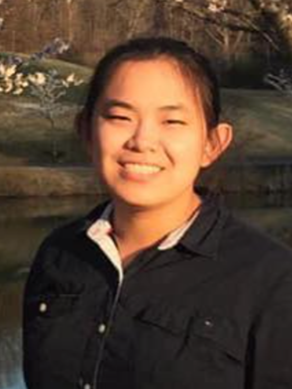
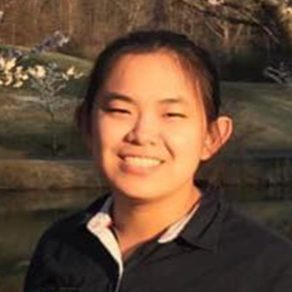
resize photo

diff --git a/CommitteeMember.html b/CommitteeMember.html
@@ -84,7 +84,7 @@
                             </div>
 							<div class="column">
                                 <a href="https://www3.cs.stonybrook.edu/~fuswang/">
-                                    <img width="150" height="180" src="images/FushengWang.jpg">
+                                    <img width="170" height="170" src="images/FushengWang.jpg">
                                 </a>
                                 <br>Fusheng Wang,<br> Stony Brook University, USA,<br>fusheng.wang@stonybrook.edu
                             </div>
@@ -96,19 +96,19 @@
                         <div class="row">
                             <div class="column">
                                 <a href=" https://www.cs.umb.edu/~ding/">
-                                    <img width="170" height="160" src="images/weiding.jpg">
+                                    <img width="170" height="170" src="images/weiding.jpg">
                                 </a>
                                 <br>Wei Ding,<br> U. of Massachusetts Boston, USA, <br>wei.ding@umb.edu
                             </div>
                             <div class="column">
                                 <a href="http://www.cs.umd.edu/~heng">
-                                    <img width="150" height="150" src="images/HengHuang.jpg">
+                                    <img width="170" height="170" src="images/HengHuang.jpg">
                                 </a>
                                 <br>Heng Huang,<br> U. of Maryland, USA, <br>heng@umd.edu
                             </div>
                             <div class="column">
                                 <a href="https://roux.northeastern.edu/people/ricardo-baeza-yates/">
-                                    <img width="130" height="150" src="images/RicardoBaeza-Yates.jpg">
+                                    <img width="170" height="170" src="images/RicardoBaeza-Yates.jpg">
                                 </a>
                                 <br>Ricardo Baeza-Yates,<br> Northeastern University, USA,<br>r.baeza-yates@northeastern.edu
                             </div>
@@ -120,15 +120,15 @@
                         <div class="row">
                             <div class="column">
                                 <a href="https://www.es.net/about/esnet-staff/testbeds-and-prototypes/john-wu/">
-                                    <img width="150" height="160" src="images/KeshengWu.jpg">
+                                    <img width="170" height="170" src="images/KeshengWu.jpg">
                                 </a>
                                 <br>Kesheng Wu,<br> Lawrence Berkeley National Laboratory, USA,<br>johnwu@es.net
                             </div>
                             <div class="column">
-                                <a href="https://people.cs.vt.edu/ctlu/">
-                                    <img width="270" height="200" src="images/DominikSlezak.jpeg">
+                                <a href="https://engineering.unt.edu/news/unt-professor-and-phd-alumnus-receive-10-year-impact-award">
+                                    <img width="170" height="170" src="images/ChengyangZhang.png">
                                 </a>
-                                <br>CY Zhang,<br> Microsoft 
+                                <br>Chengyang Zhang, <br> Microsoft, USA, <br> cyzhang@microsoft.com
                             </div>
                         </div>
                     </div>
@@ -138,7 +138,7 @@
                         <div class="row">
                             <div class="column">
                                 <a href="https://yanjiefu.com/">
-                                    <img width="150" height="180" src="images/YanjieFu.jpg">
+                                    <img width="170" height="170" src="images/YanjieFu.jpg">
                                 </a>
                                 <br>Yanjie Fu,<br>Arizona State University, USA,<br>yanjie.fu@asu.edu
                             </div>
@@ -150,13 +150,13 @@
                         <div class="row">
                             <div class="column">
                                 <a href="https://statistics.columbian.gwu.edu/fang-jin">
-                                    <img width="140" height="200" src="images/FangJin.jpg">
+                                    <img width="170" height="170" src="images/FangJin.jpg">
                                 </a>
                                 <br>Fang Jin,<br> George Washington university, USA,<br>fangjin@email.gwu.edu
                             </div>
                             <div class="column">
                                 <a href="https://lcheng.org/">
-                                    <img width="140" height="180" src="images/lucheng.png">
+                                    <img width="170" height="170" src="images/lucheng.png">
                                 </a>
                                 <br>Lu Cheng,<br> U. of Illinois at Chicago, USA, <br>lucheng@uic.edu
                             </div>
@@ -168,13 +168,13 @@
                         <div class="row">
                             <div class="column">
                                 <a href="https://engineering.virginia.edu/faculty/jundong-li">
-                                    <img width="150" height="160" src="images/JundongLi.jpg">
+                                    <img width="170" height="170" src="images/JundongLi.jpg">
                                 </a>
                                 <br>Jundong Li, <br> U. of Virginia, USA, <br> jl6qk@virginia.edu
                             </div>
                             <div class="column">
                                 <a href="https://usc-isi-i2.github.io/ilievski/">
-                                    <img width="150" height="160" src="images/FilipIlievski.jpg">
+                                    <img width="170" height="170" src="images/FilipIlievski.jpg">
                                 </a>
                                 <br>Filip Ilievski,<br> U. of South California, USA,<br> ilievski@isi.edu
                             </div>
@@ -186,13 +186,13 @@
                         <div class="row">
                             <div class="column">
                                 <a href="https://bolongzheng.com/">
-                                    <img width="150" height="160" src="images/BolongZheng.jpg">
+                                    <img width="170" height="170" src="images/BolongZheng.jpg">
                                 </a>
                                 <br>Bolong Zheng, <br> Huazhong University of Science and Technology, China,<br> zblchris@gmail.com
                             </div>
                             <div class="column">
                                 <a href="https://www.utrgv.edu/csci/faculty/yifeng-gao/index.htm">
-                                    <img width="130" height="180" src="images/yifeng_gao.png">
+                                    <img width="170" height="170" src="images/yifeng_gao.png">
                                 </a>
                                 <br>Yifeng Gao, <br> University of Texas Rio Grande Valley, USA, <br> yifeng.gao@utrgv.edu
                             </div>
@@ -205,7 +205,7 @@
                         <div class="row">
                             <div class="column">
                                 <a href="https://people.cs.vt.edu/ctlu/">
-                                    <img width="140" height="160" src="images/CarlosOrdonez.jpeg">
+                                    <img width="170" height="170" src="images/CarlosOrdonez.jpeg">
                                 </a>
                                 <br>Arnold? Danny?
                             </div>
@@ -218,7 +218,7 @@
                         <div class="row">
                             <div class="column">
                                 <a href="https://tengdj.github.io/">
-                                    <img width="140" height="160" src="images/DejunTeng.jpg">
+                                    <img width="170" height="170" src="images/DejunTeng.jpg">
                                 </a>
                                 <br>Dejun Teng,<br>Shandong University, China, <br>teng@sdu.edu.cn
                             </div>
@@ -231,7 +231,7 @@
                         <div class="row">
                             <div class="column">
                                 <a href="https://cse.umn.edu/cs/yao-yi-chiang">
-                                    <img width="130" height="180" src="images/Yao-YiChiang.jpg">
+                                    <img width="170" height="170" src="images/Yao-YiChiang.jpg">
                                 </a>
                                 <br>Yao-Yi Chiang, <br> University of Minnesota, USA, <br>yaoyi@umn.edu
                             </div>
@@ -244,13 +244,13 @@
                         <div class="row">
                             <div class="column">
                                 <a href="https://www.sdstate.edu/directory/kaiqun-fu">
-                                    <img width="140" height="160" src="images/KaiqunFu.jpg">
+                                    <img width="170" height="170" src="images/KaiqunFu.jpg">
                                 </a>
                                 <br>Kaiqun Fu, <br> South Dakota State University, USA, <br> kaiqun.fu@sdstate.edu
                             </div>
                             <div class="column">
                                 <a href="https://www.fau.edu/engineering/directory/faculty/tang/">
-                                    <img width="140" height="160" src="images/YUFEITANG.jpg">
+                                    <img width="170" height="170" src="images/YUFEITANG.jpg">
                                 </a>
                                 <br>Yufei Tang, <br> Florida Atlantic University, USA, <br> tangy@fau.edu
                             </div>
@@ -263,7 +263,7 @@
                         <div class="row">
                             <div class="column">
                                 <a href="https://geog.umd.edu/facultyprofile/xie/yiqun">
-                                    <img width="140" height="160" src="images/YiqunXie.jpg">
+                                    <img width="170" height="170" src="images/YiqunXie.jpg">
                                 </a>
                                 <br>Yiqun Xie <br> University of Maryland, USA, <br> xie@umd.edu
                         </div>
@@ -275,7 +275,7 @@
                         <div class="row">
                             <div class="column">
                                 <a href="https://kunpengliu.com/">
-                                    <img width="160" height="150" src="images/KunpengLiu.jpg">
+                                    <img width="170" height="170" src="images/KunpengLiu.jpg">
                                 </a>
                                 <br>Kunpeng Liu, <br> Portland State University, USA<br> kunpeng@pdx.edu
                             </div>
@@ -288,7 +288,7 @@
                         <div class="row">
                             <div class="column">
                                 <a href="https://webpages.charlotte.edu/lfan4/">
-                                    <img width="130" height="160" src="images/LiyueFan.jpg">
+                                    <img width="170" height="170" src="images/LiyueFan.jpg">
                                 </a>
                                 <br>Liyue Fan, <br> University of North Carolina at Charlotte, USA, <br>liyue.fan@uncc.edu
                             </div>
@@ -301,19 +301,19 @@
                         <div class="row">
                             <div class="column">
                                 <a href="https://www.utrgv.edu/csci/faculty/li-zhang/index.htm">
-                                    <img width="130" height="170" src="images/li-zhang.png">
+                                    <img width="170" height="170" src="images/li-zhang.png">
                                 </a>
                                 <br>Li Zhang, <br> University of Texas Rio Grande Valley, USA, <br>li.zhang@utrgv.edu
                             </div>
                             <div class="column">
                                 <a href="https://shiruipan.github.io/">
-                                    <img width="150" height="150" src="images/ShiruiPan.jpg">
+                                    <img width="170" height="170" src="images/ShiruiPan.jpg">
                                 </a>
                                 <br>Shirui Pan, <br> Griffith University, Australia, <br> s.pan@griffith.edu.au
                             </div>
                             <div class="column">
                                 <a href="https://kclpure.kcl.ac.uk/portal/en/persons/davide-ferrari">
-                                    <img width="140" height="160" src="images/DavideFerrari.jpg">
+                                    <img width="170" height="170" src="images/DavideFerrari.jpg">
                                 </a>
                                 <br>Davide Ferrari, <br> King's College, London, <br> davide.ferrari@kcl.ac.uk
                             </div>
@@ -326,13 +326,13 @@
                         <div class="row">
                             <div class="column">
                                 <a href="https://yong-zhuang.github.io/">
-                                    <img width="150" height="150" src="images/YongZhuang.jpg">
+                                    <img width="170" height="170" src="images/YongZhuang.jpg">
                                 </a>
                                 <br>Yong Zhuang, <br> Grand Valley State University, USA, <br> yong.zhuang@gvsu.edu
                             </div>
                             <div class="column">
                                 <a href="https://taoranj.github.io/">
-                                    <img width="130" height="160" src="images/TaoranJi.jpg">
+                                    <img width="170" height="170" src="images/TaoranJi.jpg">
                                 </a>
                                 <br>Taoran Ji, <br> Texas A&M U. Corpus Christi, USA, <br> taoran.ji@tamucc.edu
                             </div>
@@ -350,13 +350,13 @@
                         <div class="row">
                             <div class="column">
                                 <a href="https://www.ai.informatik.uni-kiel.de/de/team/prof-dr-matthias-renz">
-                                    <img width="130" height="170" src="images/MatthiasRenz.jpeg">
+                                    <img width="170" height="170" src="images/MatthiasRenz.jpeg">
                                 </a>
                                 <br>Matthias Renz, <br> CAU University of Kiel, Germany, <br> mr@informatik.uni-kiel.de
                             </div>
                             <div class="column">
                                 <a href="https://ieeexplore.ieee.org/author/37535423600">
-                                    <img width="135" height="170" src="images/ZhihuiLu.png">
+                                    <img width="170" height="170" src="images/ZhihuiLu.png">
                                 </a>
                                 <br>Zhihui Lu, <br> Fudan University, China, <br> lzh@fudan.edu.cn
                             </div>
@@ -368,13 +368,13 @@
                         <div class="row">
                             <div class="column">
                                 <a href="https://research.manchester.ac.uk/en/persons/hujun.yin">
-                                    <img width="150" height="170" src="images/HujunYin.jpg">
+                                    <img width="170" height="170" src="images/HujunYin.jpg">
                                 </a>
                                 <br>Hujun Yin, <br> University of Manchester, UK,<br> hujun.yin@manchester.ac.uk
                             </div>
                             <div class="column">
                                 <a href="https://www.bigscity.com/jingyuan-wang/">
-                                    <img width="130" height="170" src="images/JingyuanWang.jpg">
+                                    <img width="170" height="170" src="images/JingyuanWang.jpg">
                                 </a>
                                 <br>Jingyuan Wang, <br> Beihang University, China, <br> jywang@buaa.edu.cn
                             </div>
@@ -386,13 +386,13 @@
                         <div class="row">
                             <div class="column">
                                 <a href="https://www.olcf.ornl.gov/directory/staff-member/arjun-shankar/">
-                                    <img width="130" height="170" src="images/ArjunShankar.png">
+                                    <img width="170" height="170" src="images/ArjunShankar.png">
                                 </a>
                                 <br>Arjun Shankar, <br> Oak Ridge National Laboratory, USA, <br> shankarm@ornl.gov
                             </div>
                             <div class="column">
                                 <a href="https://www.csc.ncsu.edu/people/rrvatsav">
-                                    <img width="130" height="180" src="images/RajuVatsavai.jpg">
+                                    <img width="170" height="170" src="images/RajuVatsavai.jpg">
                                 </a>
                                 <br>Raju Vatsavai, <br> North Carolina State University, USA, <br> rrvatsav@ncsu.edu 
                             </div>
@@ -404,13 +404,13 @@
                         <div class="row">
                             <div class="column">
                                 <a href="https://eng.auburn.edu/directory/weishinn">
-                                    <img width="130" height="180" src="images/Wei-ShinnKu.jpg">
+                                    <img width="170" height="170" src="images/Wei-ShinnKu.jpg">
                                 </a>
                                 <br>Wei-Shinn (Jeff) Ku, <br> Auburn University, USA, <br> weishinn@gmail.com 
                             </div>
                             <div class="column">
                                 <a href="https://cs.uiowa.edu/people/bijaya-adhikari">
-                                    <img width="150" height="150" src="images/BijayaAdhikari.jpg">
+                                    <img width="170" height="170" src="images/BijayaAdhikari.jpg">
                                 </a>
                                 <br>Bijaya Adhikari, <br>University of Iowa, USA, <br>bijaya-adhikari@uiowa.edu
                             </div>
@@ -422,13 +422,13 @@
                         <div class="row">
                             <div class="column">
                                 <a href="https://www.jiangteam.org/">
-                                    <img width="130" height="160" src="images/ZheJiang.jpg">
+                                    <img width="170" height="170" src="images/ZheJiang.jpg">
                                 </a>
                                 <br>Zhe Jiang, <br> University of Florida, USA, <br> zhe.jiang@ufl.edu
                             </div>
                             <div class="column">
                                 <a href="https://www.itk.ilstu.edu//faculty/arezgui/">
-                                    <img width="130" height="180" src="images/AbdelmounaamRezgui.avif">
+                                    <img width="170" height="170" src="images/AbdelmounaamRezgui.png">
                                 </a>
                                 <br>Abdelmounaam Rezgui, <br> Illinois State University, USA, <br>arezgui@ilstu.edu 
                             </div>
@@ -440,13 +440,13 @@
                         <div class="row">
                             <div class="column">
                                 <a href="https://www.isgroup.unimore.it/members-federica.html">
-                                    <img width="140" height="160" src="images/federicamandreoli.png">
+                                    <img width="170" height="170" src="images/federicamandreoli.png">
                                 </a>
                                 <br> Federica Mandreoli, <br> University of Modena and Reggio Emilia, Italy, <br> fmandreoli@unimore.it  
                             </div>
                             <div class="column">
                                 <a href="https://tjdi.tongji.edu.cn/TeacherDetail.do?id=4991&lang=_en">
-                                    <img width="140" height="160" src="images/WANGHaofen.png">
+                                    <img width="170" height="170" src="images/WANGHaofen.png">
                                 </a>
                                 <br>Haofen Wang, <br> Tongji University, China, <br> haofen.wang@tongji.edu.cn
                             </div>
@@ -457,13 +457,13 @@
                         <div class="row">
                             <div class="column">
                                 <a href="https://engineering.ucdenver.edu/CSCI-research/data-science-big-data-management-and-mining/farnoush-banaei-kashani">
-                                    <img width="140" height="160" src="images/farnoushBanaei-Kashani.jpg">
+                                    <img width="170" height="170" src="images/farnoushBanaei-Kashani.jpg">
                                 </a>
                                 <br>Farnoush Banaei-Kashani, <br> University of Colorado,Denver , USA, <br>farnoush.banaei-kashani@ucdenver.edu
                             </div>
                             <div class="column">
                                 <a href="https://cs.emory.edu/~lzhao41/">
-                                    <img width="140" height="160" src="images/LiangZhao.jpg">
+                                    <img width="170" height="170" src="images/LiangZhao.jpg">
                                 </a>
                                 <br>Liang Zhao, <br> Emory University, USA, <br> liang.zhao@emory.edu
                             </div>
@@ -475,13 +475,13 @@
                         <div class="row">
                             <div class="column">
                                 <a href="https://www.zuefle.org/">
-                                    <img width="130" height="180" src="images/AndreasZüfle.jpg">
+                                    <img width="170" height="170" src="images/AndreasZüfle.jpg">
                                 </a>
                                 <br>Andreas Züfle, <br> Emory U., USA, <br> azufle@emory.edu
                             </div>
                             <div class="column">
                                 <a href="https://researcher.draco.res.ibm.com/researcher/view_person_pubs.php?person=us-pateldha&t=1">
-                                    <img width="220" height="170" src="images/DhavalPatel.jpg">
+                                    <img width="170" height="170" src="images/DhavalPatel.jpg">
                                 </a>
                                 <br>Dhaval Patel, <br> IBM research, USA, <br> pateldha@us.ibm.com
                             </div>
